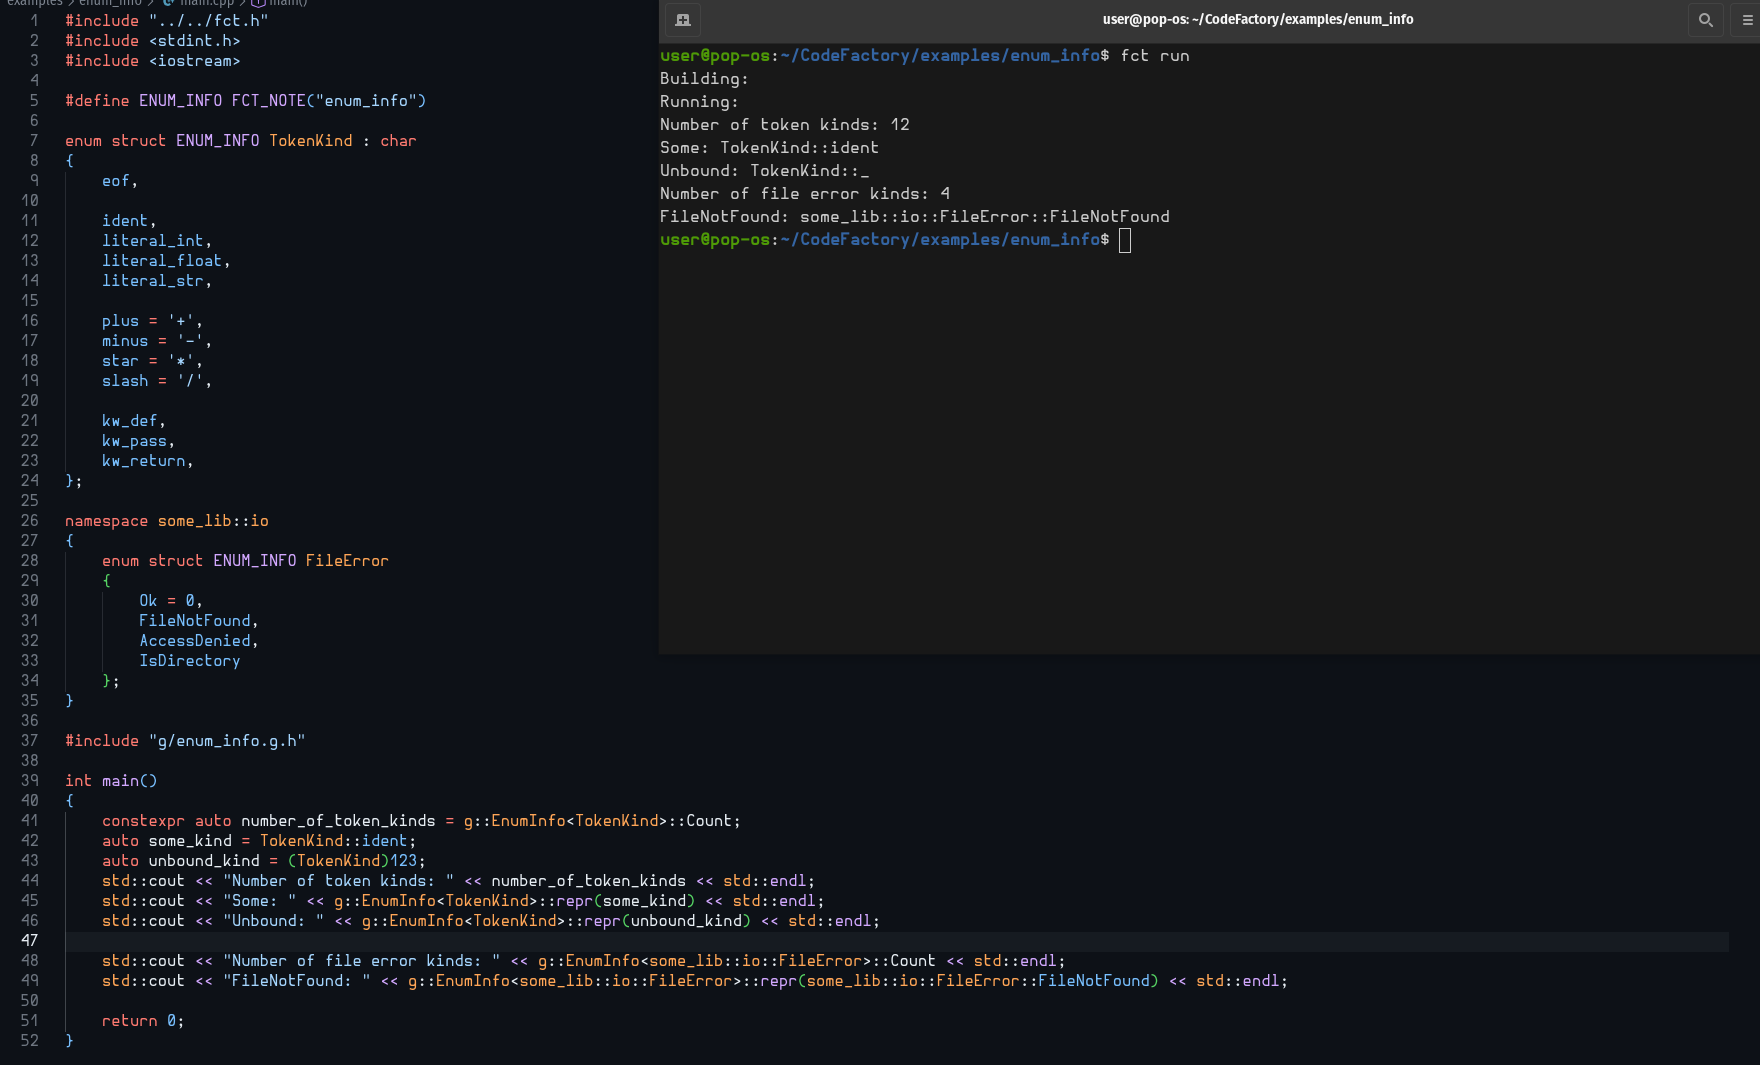
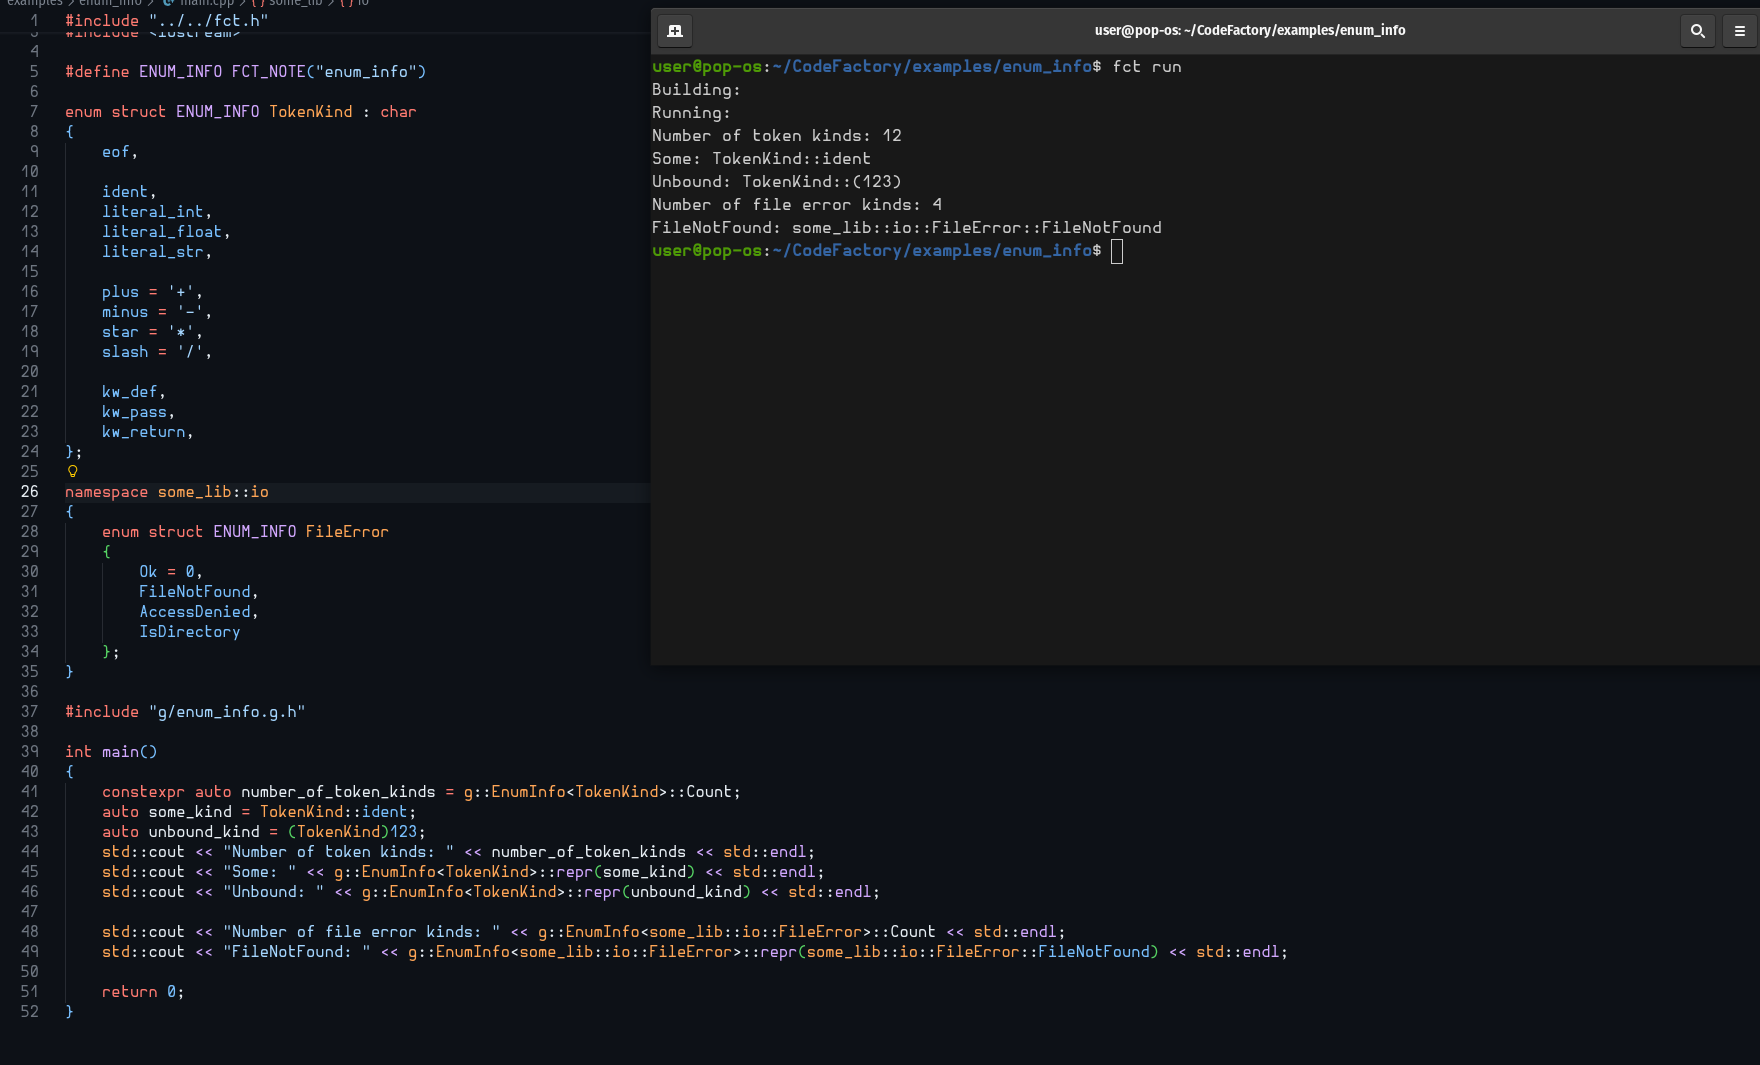
better unbound repr

diff --git a/examples/enum_info/periodics/enum_count.py b/examples/enum_info/periodics/enum_count.py
@@ -28,7 +28,7 @@ def collect_enum_members(enum: ClangNode) -> list[ClangNode]:
 def gen_enum_info(fqn: str, enum: ClangNode) -> CppPieceBuilder:
     members = collect_enum_members(enum)
 
-    repr_pb = CppPieceBuilder(f"static char const* repr({fqn} self)")
+    repr_pb = CppPieceBuilder(f"static std::string repr({fqn} self)")
     repr_pb.line("switch (self)")
     repr_pb.body()
     
@@ -39,7 +39,7 @@ def gen_enum_info(fqn: str, enum: ClangNode) -> CppPieceBuilder:
         repr_pb.unindent()
 
     repr_pb.unbody()
-    repr_pb.line(f'return "{fqn}::_";')
+    repr_pb.line(f'return (std::stringstream() << "{fqn}::(" << (int)self << ")").str();')
 
     pb = CppPieceBuilder()
     pb.add_flat(
